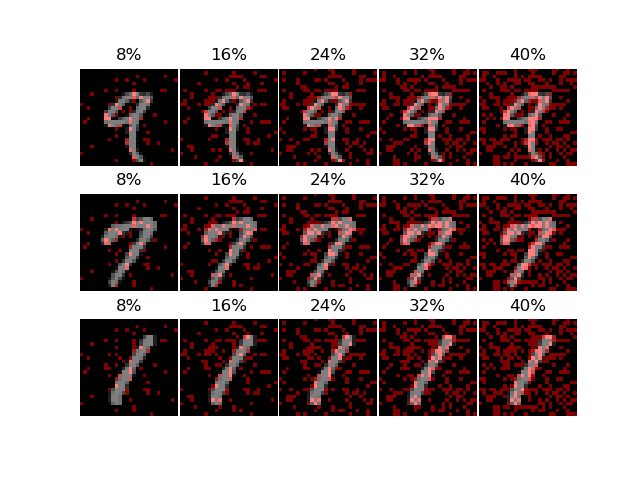
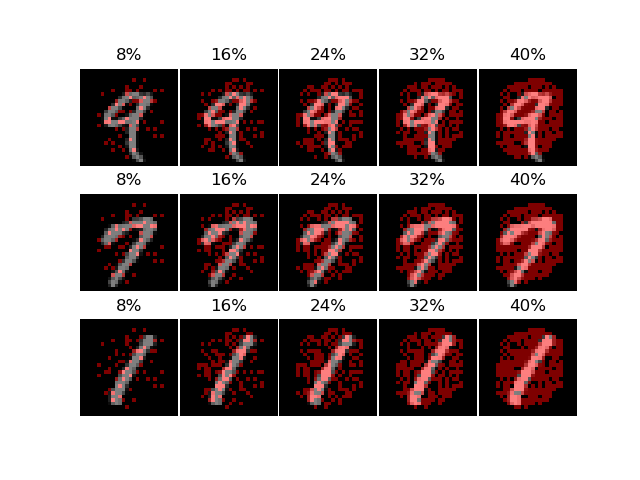
Train Accuracy for 40% of MNIST

diff --git a/compare.py b/compare.py
@@ -74,6 +74,7 @@ def define_parser():
     parser = argparse.ArgumentParser(description="Run NMP")
     parser.add_argument("--reduced_inference", default="True", help="If comparision subset is reduced according to paper")
     parser.add_argument("--J", default="1000", help="Comparision subset")
+    parser.add_argument("--feature_percentage", default="100", help="Percentage of features used for performance measure")
     parser.add_argument("--data", default="MNIST", help="Input dataset available as the paper shows")
     parser.add_argument("--algo", default="BART", help="The algorithm used for feature selection")
     parser.add_argument("--tree_size", default="20", help="The number of trees used in BART or RF")
@@ -311,6 +312,7 @@ def create_model(args, file_path, model, X_train, T_train):
 def run_feature_selector_algo(args, S, X_train, X_test, T_train, T_test, i, model_fpsr, model_fnsr, model_msfe, model_mspe, model_card, model_nme_train, model_nme_test):
     log_params = False
     file_path_prefix = "./parameters/"
+    feature_percentage = args.feature_percentage
 
     start_time = time.time()
     if args.algo=="RF":      
@@ -324,10 +326,10 @@ def run_feature_selector_algo(args, S, X_train, X_test, T_train, T_test, i, mode
         S_hat = np.argwhere(importance_vals > 0.01).flatten()
         
         if args.data=="MNIST" or args.data=="CIFAR-10": # Take 40% features of MNIST only
-            file_path = file_path_prefix + args.data + "/" + args.algo + "-" + "40_percent_features-" + str(i) + ".joblib"
-            # n_sub_feat_size = int(X_train.shape[1]*0.4)
+            file_path = file_path_prefix + args.data + "/" + args.algo + "-" + feature_percentage + "_percent_features-" + str(i) + ".joblib"
+            n_sub_feat_size = int(X_train.shape[1]*int(feature_percentage)/100)
             # For RF use this because of the already trained saved model in Sandipan's laptop
-            n_sub_feat_size = 315 
+            # n_sub_feat_size = 315 
             S_hat = np.argsort(importance_vals)[::-1][:n_sub_feat_size].flatten() #40% features
             model = RandomForestRegressor(n_estimators=100) 
             model = create_model(args, file_path, model, X_train[:,S_hat], T_train)
@@ -398,8 +400,8 @@ def run_feature_selector_algo(args, S, X_train, X_test, T_train, T_test, i, mode
             # Make sure images have shape (28, 28, 1)
             X_train = np.expand_dims(X_train, -1)
             X_test = np.expand_dims(X_test, -1)
-            file_path = file_path_prefix + args.data + "/" + args.algo + "-" + "40_percent_features-" + str(i) + ".h5"
-            n_sub_feat_size = int(X_train.shape[1]*0.4)
+            file_path = file_path_prefix + args.data + "/" + args.algo + "-" + feature_percentage + "percent_features-" + str(i) + ".h5"
+            n_sub_feat_size = int(X_train.shape[1]*int(feature_percentage)/100)
             S_hat = total_val.argsort()[::-1][:n_sub_feat_size] #40% features
             model_new = CNNModel(num_classes, input_shape).create_cnn_model()
             model_new.compile(loss="categorical_crossentropy", optimizer="adam", metrics=["accuracy"])
@@ -437,8 +439,8 @@ def run_feature_selector_algo(args, S, X_train, X_test, T_train, T_test, i, mode
         
         
         if args.data=="MNIST" or args.data=="CIFAR-10": # Take 40% features of MNIST only
-            file_path = file_path_prefix + args.data + "/" + args.algo + "-" + "40_percent_features-" + str(i) + ".joblib"
-            n_sub_feat_size = int(X_train.shape[1]*0.4)
+            file_path = file_path_prefix + args.data + "/" + args.algo + "-" + feature_percentage + "_percent_features-" + str(i) + ".joblib"
+            n_sub_feat_size = int(X_train.shape[1]*int(feature_percentage)/100)
             S_hat = sorted(model.importance, key=model.importance.get)[::-1][:n_sub_feat_size] #40% features
             model = XBART(num_trees = int(args.tree_size), num_sweeps = 20, burnin = 15, verbose = True, parallel = True)
             X_train = pd.DataFrame(x_train[:,S_hat])
@@ -513,8 +515,8 @@ def run_feature_selector_algo(args, S, X_train, X_test, T_train, T_test, i, mode
         imp_vals = model.coef_[model.coef_ > thershold]
         S_hat = np.argsort(imp_vals).flatten()
         if args.data=="MNIST" or args.data=="CIFAR-10": # Take 40% features of MNIST only
-            file_path = file_path_prefix + args.data + "/" + args.algo + "-" + "40_percent_features-" + str(i) + ".joblib"
-            n_sub_feat_size = int(X_train.shape[1]*0.4)
+            file_path = file_path_prefix + args.data + "/" + args.algo + "-" + feature_percentage + "_percent_features-" + str(i) + ".joblib"
+            n_sub_feat_size = int(X_train.shape[1]*int(feature_percentage)/100)
             S_hat = np.argsort(model.coef_)[::-1][:n_sub_feat_size].flatten() #40% features           
             model = linear_model.Lasso(alpha=0.01, max_iter=5000)
             model = create_model(args, file_path, model, X_train[:,S_hat], T_train)
@@ -568,15 +570,22 @@ def run_feature_selector_algo(args, S, X_train, X_test, T_train, T_test, i, mode
         # Normalized Error (NME)
         model_nme_train[0,i] = compute_nme(model.predict(X_train).reshape(T_train.shape), T_train)
         model_nme_test[0,i] = compute_nme(model.predict(X_test).reshape(T_test.shape), T_test)
-        
+                
+        if args.algo == "BART":
+            val = model.predict(X_train)
+            normalized = (val-min(val))/(max(val)-min(val))
+            accuracy = np.sum([abs(0.9*normalized - T_train.flatten()) < 0.2]) / len(T_train.flatten())
+            print("**********The train accuracy is: ", accuracy)
+        else:
+            print("**********The train accuracy is: ", calculate_accuracy(model.predict(X_train).reshape(T_train.shape).T, T_train.T))
+
         if args.algo == "BART":
             val = model.predict(X_test)
             normalized = (val-min(val))/(max(val)-min(val))
             accuracy = np.sum([abs(0.9*normalized - T_test.flatten()) < 0.2]) / len(T_test.flatten())
-            print(accuracy)
+            print("**********The test accuracy is: ", accuracy)
         else:
-            print(calculate_accuracy(model.predict(X_test).reshape(T_test.shape).T, T_test.T))
-        
+            print("**********The test accuracy is: ", calculate_accuracy(model.predict(X_test).reshape(T_test.shape).T, T_test.T))
 
     print ("Time taken for this MC iteration: ", time.time() - start_time)
 

diff --git a/test.py b/test.py
@@ -95,7 +95,12 @@ show_image(x, S_hat_bart_mnist[0:300], "test_bart_300")
 with open('./parameters/MNIST_sorted_ind.pkl', 'rb') as f:
     indices = pickle.load(f)
 
-S_hat = indices['sorted_ind']
+S_hat = sorted_ind = [507,404,408,244,320,239,297,327,400,351,512,489,369,238,330,457,273,289,454,359,378,153,156,659,605,348,293,412,465,519,463,371,423,258,572,481,549,650,346,398,290,443,594,235,175,485,429,402,370,597,487,323,275,353
+    ,217,663,389,211,569,607,355,405,261,582,599,496,247,177,319,410,513,564,538,436,494,314,352,537,209,210,154,495,264,662,631,295,575,510,368,441,212,181,231,406,536,265,396,190,274,427,514,241,321,456,553,299,326,425
+    ,318,416,350,451,240,486,216,500,206,524,328,381,526,654,552,499,388,315,455,576,633,656,286,395,651,627,554,202,229,622,317,657,233,492,272,570,470,459,540,245,413,242,155,490,603,608,452,652,403,379,625,302,296,377
+    ,601,347,380,508,291,257,581,573,305,484,414,437,292,357,161,341,246,407,497,214,285,182,600,208,442,325,539,520,189,546,483,479,303,511,284,433,515,356,550,517,266,354,180,215,431,304,541,232,332,629,493,399,340,276
+    ,345,542,360,595,158,248,415,344,551,593,453,626,383,387,567,630,185,635,580,480,527,632,525,300,469,555,548,270,428,464,658,179,491,598,183,660,373,385,384,267,243,461,374,518,444,424,268,184,375,312,430,574,440,604
+    ,568,566,578,432,468,516,434,426,401,471,439,313,262,521,236,653,349,376,237,634,579,298,624,219,159,333,435,204,331,623,287,544,522,372,386,207,157,361,438,571,343,466,259,271]
 show_image(x, S_hat[0:300], "test_nmp_300_1x1")
 
 rows = [1, 3, 3, 2, 4, 2, 3, 4, 3, 5, 5, 3, 3, 5, 2, 4, 4, 4, 2, 6, 2, 4, 0, 1, 2, 3, 5, 1, 0, 0, 5, 0, 6, 2, 0, 6, 1, 5, 4, 5, 1, 0, 1, 6, 1, 6, 0, 6, 6]
@@ -238,3 +243,36 @@ cols = [6, 2, 4, 5, 6, 5, 0, 2, 2, 2, 3, 3, 5, 6, 1, 4, 6, 0, 3, 5]
 S_hat = choose_patched_features(20, rows, cols, patch_rows = 4, patch_cols = 4)
 
 show_image(x, S_hat[0:300], "test_nmp_cnn_300_4x4")
+
+
+'''
+
+percentage  = [1, 8, 16, 24, 32, 40, 100]
+
+#y_ngp_ssfn  = [10, 20, 30, 85.31, 50, 78]
+#y_ngp_cnn   = [10, 20, 30, 86.25, 50, 78]
+y_lasso     = [1, 8, 16, 24, 32, 73.60, 100]
+y_rf        = [1, 8, 16, 24, 32, 86.64, 100]
+y_bart_20   = [45.09, 63.58, 65.22, 61.74, 65.15, 71.45, 65.87]
+y_bart_30   = [1, 8, 16, 24, 32, 64.37, 100]
+y_bart_50   = [1, 8, 16, 24, 32, 67.52, 100]
+y_shap      = [1, 8, 16, 24, 32, 68.85, 100]
+
+
+
+plt.plot(percentage, y_rf, label = "RF")
+plt.plot(percentage, y_bart_20, label = "BART-20")
+plt.plot(percentage, y_bart_30, label = "BART-30")
+plt.plot(percentage, y_bart_50, label = "BART-50")
+plt.plot(percentage, y_shap, label = "SHAP + DeepLift")
+plt.plot(percentage, y_lasso, label = "LASSO")
+plt.xlabel('% of selected features')
+# Set the y axis label of the current axis.
+plt.ylabel('Accuracy')
+# Set a title of the current axes.
+#plt.title('Two or more lines on same plot with suitable legends ')
+# show a legend on the plot
+plt.legend()
+# Display a figure.
+plt.show()
+'''

diff --git a/MyFunctions.py b/MyFunctions.py
@@ -180,6 +180,65 @@ def show_image(samples, sorted_ind, save_name):
     plt.close()
 
 
+def show_image_accuracy(samples, sorted_ind, save_name, test_accuracy):
+    result_path = "./results/"
+    image = {}
+    percentage = [0.2,0.4,0.6,0.8,1] # [0.2,0.4,0.6,0.8,1] # [0.1,0.2,0.3,0.4,0.5,0.6,0.7,0.8,0.9,1]
+    percentage_label = [0.08,0.16,0.24,0.32,.40]
+    fig = plt.figure()
+    
+    gs1 = gridspec.GridSpec(len(percentage), len(samples))
+    gs1.update(wspace=0.025, hspace=0.025) # set the spacing between axes.
+    no_of_samples = len(samples)
+
+    i = 0
+    feature_len = len(sorted_ind)
+    for p in percentage:
+        idx = 0
+        for x in samples:
+            y = np.zeros(x.shape)
+            temp = int(round(p*feature_len))
+            index = sorted_ind[0:temp]
+            
+            y[index] = 1 # Identify the feature positions
+            feature = np.reshape(y, (28,28))
+            feature = np.transpose(feature)
+            #feature[feature>0] = 1
+
+            sample = np.reshape(x, (28,28))
+            sample = np.transpose(sample)
+            #sample[sample>0] = 1
+            zero = np.zeros(sample.shape)
+
+            dummy_RGB_image = np.repeat(sample[..., np.newaxis], 3, -1)
+            feature_image = np.repeat(zero[..., np.newaxis], 3, -1)
+            feature_image[:,:,0] = feature
+            #dummy_RGB_image[:,:,1] = sample
+            #dummy_RGB_image[:,:,2] = sample
+            
+            image = Image.fromarray((dummy_RGB_image * 255).astype(np.uint8))
+            f_image = Image.fromarray((feature_image * 255).astype(np.uint8))
+            ax = plt.subplot(gs1[i])
+
+            ax.set_aspect('equal')
+            # ax = fig.add_subplot(3, len(percentage), i)
+            params = {'interpolation': 'nearest'}
+            imgplot = plt.imshow(image)
+            plt.imshow(f_image, 'viridis', interpolation='nearest', alpha=0.5)
+            
+            if idx == 0:
+                ax.set_title(str(int(percentage_label[i%(no_of_samples-1)] * 100))+"%", x=-0.5,y=0.3, fontsize=20)
+            if idx == no_of_samples-1:
+                ax.set_title(str(test_accuracy[i%(no_of_samples-1)])+"%", color='blue', x=1.5,y=0.3, fontsize=20)
+                #ax.set_title(, x=10,y=0.3)
+            
+            plt.axis('off')
+            i = i + 1
+            idx = idx + 1
+    plt.show()
+    #plt.savefig(result_path +"Sample_image_MNIST_"+save_name+".png")
+    #plt.close()
+
 def save_list(my_list, parameters_path, data):
     with open(parameters_path + data+"_"+'n_lists.json','w') as f: 
         json.dump(my_list, f, ensure_ascii=False)

diff --git a/test_accuracy.py b/test_accuracy.py
@@ -1,0 +1,37 @@
+import matplotlib.pyplot as plt 
+import os
+import joblib
+import numpy as np
+from scipy.io import loadmat
+import time
+import pickle
+import argparse
+from sklearn.pipeline import make_pipeline
+import random
+import pandas as pd
+from MyFunctions import *
+
+X_train_ori =  loadmat("./mat_files/MNIST.mat")["train_x"].astype(np.float32)
+
+test = loadmat("./mat_files/MNIST.mat")["train_y"].astype(np.float32)
+
+x = np.array([X_train_ori[:,1],
+              X_train_ori[:,3],
+              X_train_ori[:,5],
+              X_train_ori[:,30],
+              X_train_ori[:,2],
+              X_train_ori[:,0],
+              X_train_ori[:,13],
+              X_train_ori[:,15],
+              X_train_ori[:,31],
+              X_train_ori[:,4]])
+
+test_accuracy = [82.64, 84.99, 86,  86.49, 86.45]
+
+S_hat = sorted_ind = [507,404,408,244,320,239,297,327,400,351,512,489,369,238,330,457,273,289,454,359,378,153,156,659,605,348,293,412,465,519,463,371,423,258,572,481,549,650,346,398,290,443,594,235,175,485,429,402,370,597,487,323,275,353
+    ,217,663,389,211,569,607,355,405,261,582,599,496,247,177,319,410,513,564,538,436,494,314,352,537,209,210,154,495,264,662,631,295,575,510,368,441,212,181,231,406,536,265,396,190,274,427,514,241,321,456,553,299,326,425
+    ,318,416,350,451,240,486,216,500,206,524,328,381,526,654,552,499,388,315,455,576,633,656,286,395,651,627,554,202,229,622,317,657,233,492,272,570,470,459,540,245,413,242,155,490,603,608,452,652,403,379,625,302,296,377
+    ,601,347,380,508,291,257,581,573,305,484,414,437,292,357,161,341,246,407,497,214,285,182,600,208,442,325,539,520,189,546,483,479,303,511,284,433,515,356,550,517,266,354,180,215,431,304,541,232,332,629,493,399,340,276
+    ,345,542,360,595,158,248,415,344,551,593,453,626,383,387,567,630,185,635,580,480,527,632,525,300,469,555,548,270,428,464,658,179,491,598,183,660,373,385,384,267,243,461,374,518,444,424,268,184,375,312,430,574,440,604
+    ,568,566,578,432,468,516,434,426,401,471,439,313,262,521,236,653,349,376,237,634,579,298,624,219,159,333,435,204,331,623,287,544,522,372,386,207,157,361,438,571,343,466,259,271]
+show_image_accuracy(x, S_hat[0:300], "test_nmp_300_1x1_accuracy", test_accuracy)
